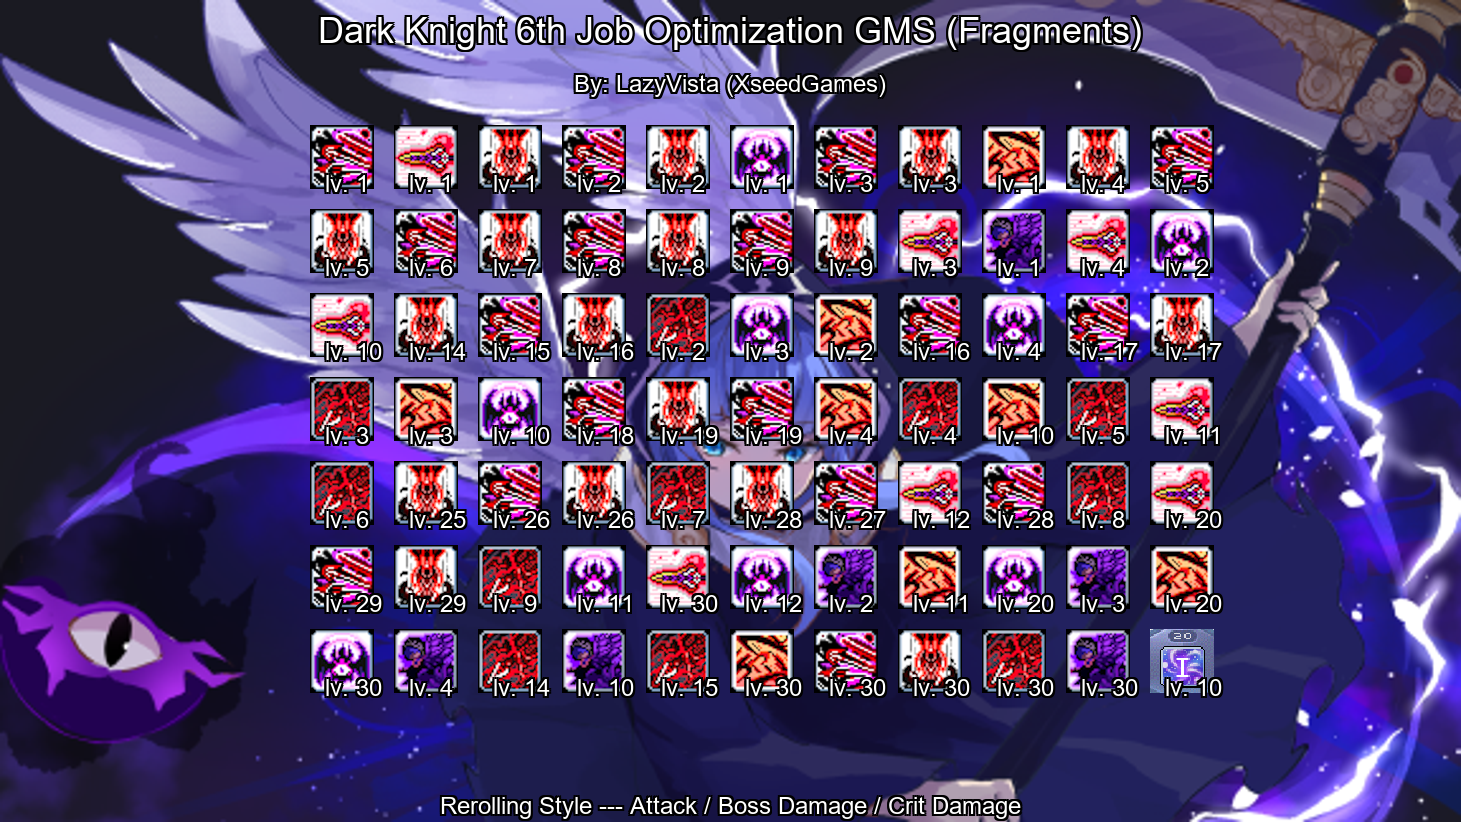
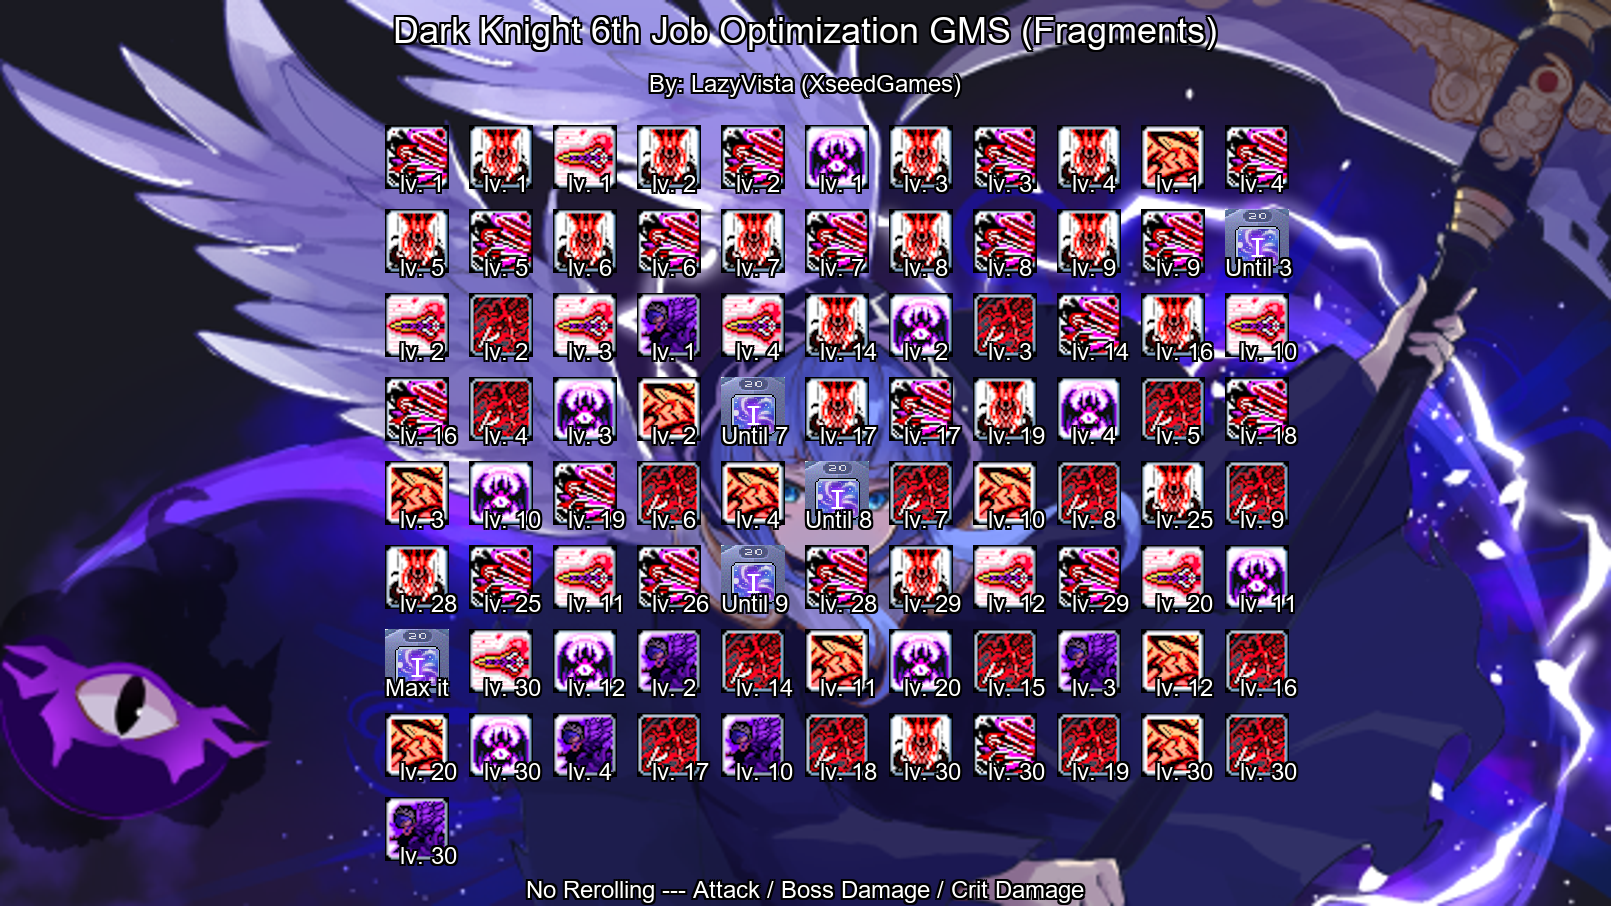
Silenced some of the debugging lines

diff --git a/Auto_Infographic_Optimize/Hexa_Skill_Optimize.py b/Auto_Infographic_Optimize/Hexa_Skill_Optimize.py
@@ -12,7 +12,7 @@ import tkinter as tk
 Toggle_Stuff = {
     'Frag_Base'         :True,
     'Hexa_Stat_Include' :True,
-    'Hexa_Maxed'        :True
+    'Hexa_Maxed'        :False
     }
 # Use decimal values 98% = 0.98, 612% = 6.12, etc etc
 # Damage is Boss% + Damage%,
@@ -35,15 +35,15 @@ Base_Numbers = {
 # (A_2a = Gungnir, A_2b = Nightshade explosion, A_2c = Impale) A_2a is designed to be the same as A_1, if its not, leave it at 0 and use A_2b or A_2c instead.
 # Input an estimated BA contribution for level one if Origin is currently nonexistant
 Damage_Distribution = {
-    'A_1': 18,
-    'A_2a': 18,
+    'A_1': 20,
+    'A_2a': 20,
     'A_2b': 5.00,
     'A_2c': 0,
     'B_1': 24,
     'B_2': 18,
     'B_3': 15,
     'B_4': 6,
-    'C_1': 6,
+    'C_1': 8,
 }
 
 # Current Skill Levels (6th Core)
@@ -75,16 +75,6 @@ Hexa_Stat_Alt_1 = [4 , 'Crit Damage']
 ## VERY IMPORTANT TO FILL BOXES (DAMAGE, IED, BOSS_DEF, A_1 ..... Level_Distribution['C_1_Level'])
 ## VERY IMPORTANT TO FILL BOXES (DAMAGE, IED, BOSS_DEF, A_1 ..... Level_Distribution['C_1_Level'])
 ## You can ignore everything below here, let the magic machine do its work
-
-# for debugging purposes
-def ListPrint(List):
-    # Determine the maximum width for each column
-    max_lengths = [max(len(str(item)) for sublist in List for item in sublist)]
-
-    # Print each row with formatted columns
-    for row in List:
-        formatted_row = ' '.join('{:<{width}}'.format(item, width=max_lengths[0]+1) for item in row)
-        print(formatted_row)
 
 # Damage gain vs level
 def Fill_Boost(List,ID,Aux,Val,Start,End):
@@ -131,7 +121,17 @@ def Fill_Boost(List,ID,Aux,Val,Start,End):
                 CAux     = (1-Base_Numbers['Boss_Def']*(1-Base_Numbers['IED'])*(1-.2)*(1-0.3))/(1-Base_Numbers['Boss_Def']*(1-Base_Numbers['IED'])) * (1 + Base_Numbers['Damage'] + .2 + .3) / (1 + Base_Numbers['Damage'])
                 List[i] = Damage_Distribution['C_1'] + round((i) * Aux * CAux  * Val/30,sig_fig)
     return List
+    
+# for debugging purposes
+def ListPrint(List):
+    # Determine the maximum width for each column
+    max_lengths = [max(len(str(item)) for sublist in List for item in sublist)]
 
+    # Print each row with formatted columns
+    for row in List:
+        formatted_row = ' '.join('{:<{width}}'.format(item, width=max_lengths[0]+1) for item in row)
+        print(formatted_row)
+        
 # Cost to Reach a certain level
 def Fill_Costs(List,Start):
     Result_List = Start*[0]
@@ -477,12 +477,13 @@ def Run_Main():
         B_3_boost = Fill_Boost(B_3_boost,"B",B_3_Aux ,Bmod_3 ,0  ,len(B_cost))
         B_4_boost = Fill_Boost(B_4_boost,"B",B_4_Aux ,Bmod_4 ,0  ,len(B_cost))
         C_1_boost = Fill_Boost(C_1_boost,"C",C_1_Aux ,Damage_Distribution['C_1']    ,0  ,len(C_cost))
-        print('A_1 Base :' + str(round(Amod_1,5)))
-        print('B_1 Base :' + str(round(Bmod_1,5)))
-        print('B_2 Base :' + str(round(Bmod_2,5)))
-        print('B_3 Base :' + str(round(Bmod_3,5)))
-        print('B_4 Base :' + str(round(Bmod_4,5)))
-        print('C_1 Base :' + str(round(C_1,5)))
+#        print('A_1 Base :' + str(round(Amod_1,5)))
+#        print('A_2b Base :' + str(round(Amod_2b,5)))
+#        print('B_1 Base :' + str(round(Bmod_1,5)))
+#        print('B_2 Base :' + str(round(Bmod_2,5)))
+#        print('B_3 Base :' + str(round(Bmod_3,5)))
+#        print('B_4 Base :' + str(round(Bmod_4,5)))
+#        print('C_1 Base :' + str(round(C_1,5)))
     else:
     # where i left off ------------------------------------------
         A_1_Aux         = 1
@@ -533,12 +534,16 @@ def Run_Main():
         B_4_boost = Fill_Boost(B_4_boost,"B",B_4_Aux ,Bmod_4 ,0  ,len(B_cost))
         C_1_boost = Fill_Boost(C_1_boost,"C",C_1_Aux ,Damage_Distribution['C_1']    ,0  ,len(C_cost))
 
-        print('A_1 Base :' + str(round(Amod_1,5)))
-        print('B_1 Base :' + str(round(Bmod_1,5)))
-        print('B_2 Base :' + str(round(Bmod_2,5)))
-        print('B_3 Base :' + str(round(Bmod_3,5)))
-        print('B_4 Base :' + str(round(Bmod_4,5)))
-        print('C_1 Base :' + str(round(C_1,5)))
+#        print('A_1 Base :' + str(round(Amod_1,5)))
+#        print('A_2b Base :' + str(round(Amod_2b,5)))
+#        print('B_1 Base :' + str(round(Bmod_1,5)))
+#        print('B_2 Base :' + str(round(Bmod_2,5)))
+#        print('B_3 Base :' + str(round(Bmod_3,5)))
+#        print('B_4 Base :' + str(round(Bmod_4,5)))
+#        print('C_1 Base :' + str(round(C_1,5)))
+
+#        for i in range(len(C_1_boost)):
+#            print(C_1_boost[i])
 
     # input initial boost and cost values
     if Level_Distribution['A_1_Level'] != 0:
